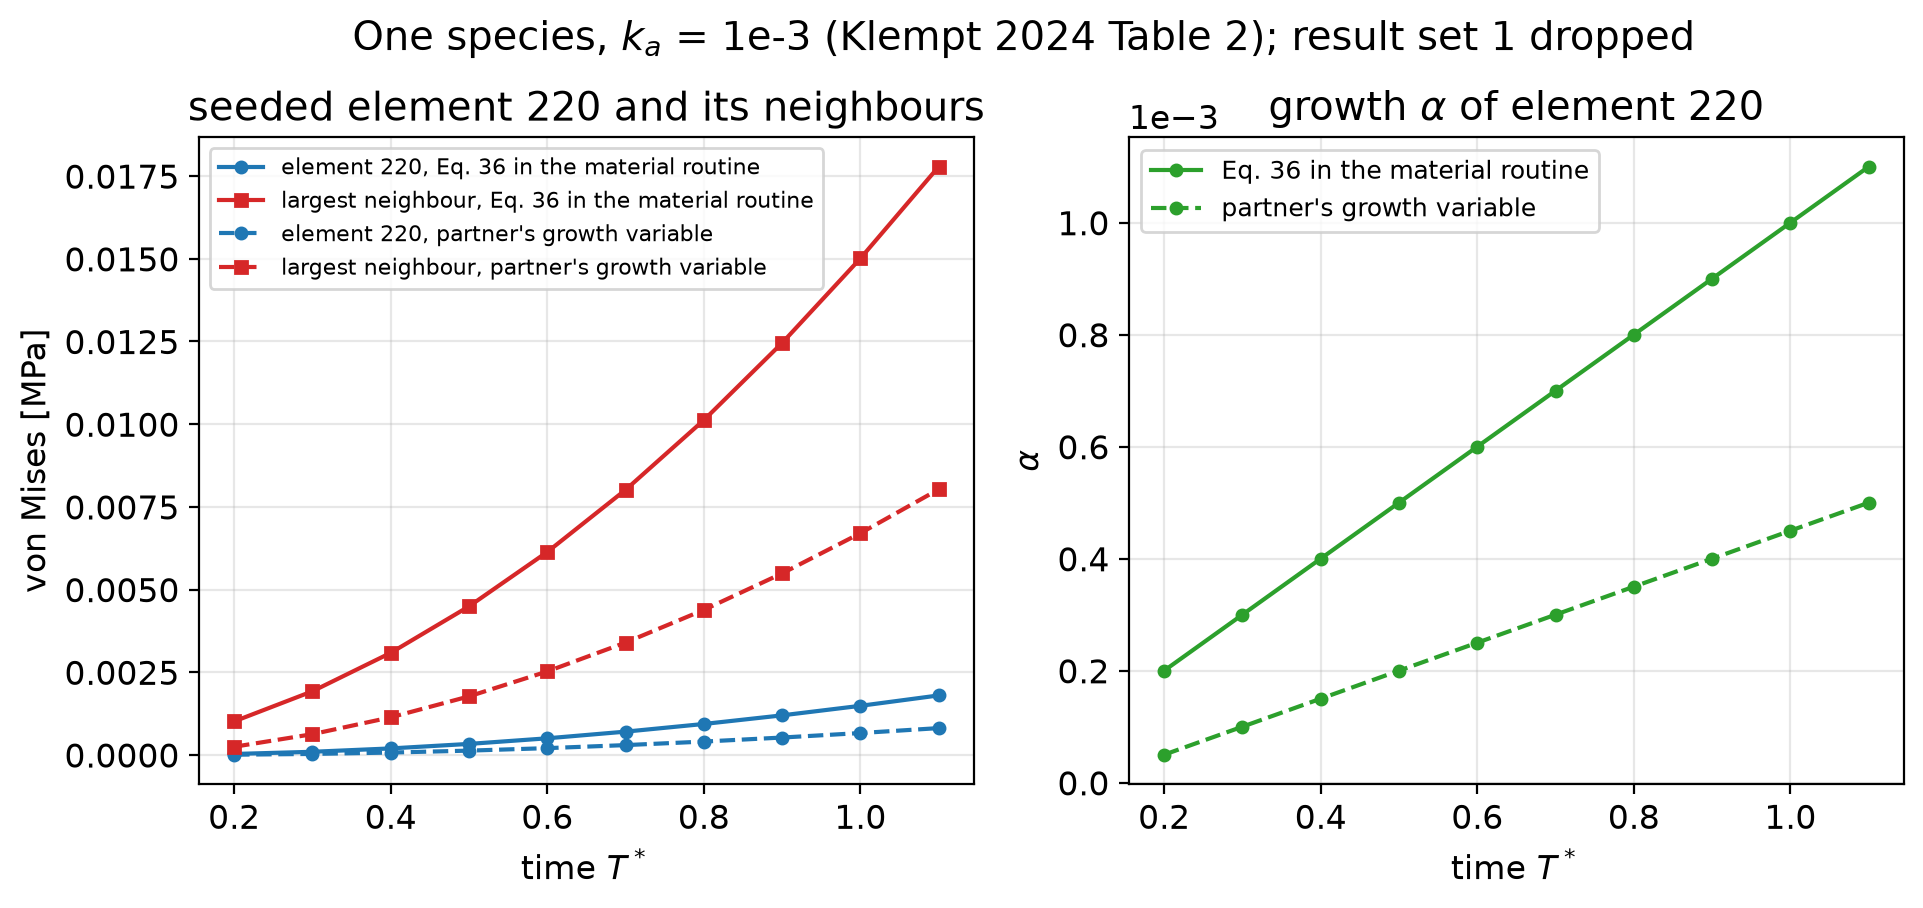
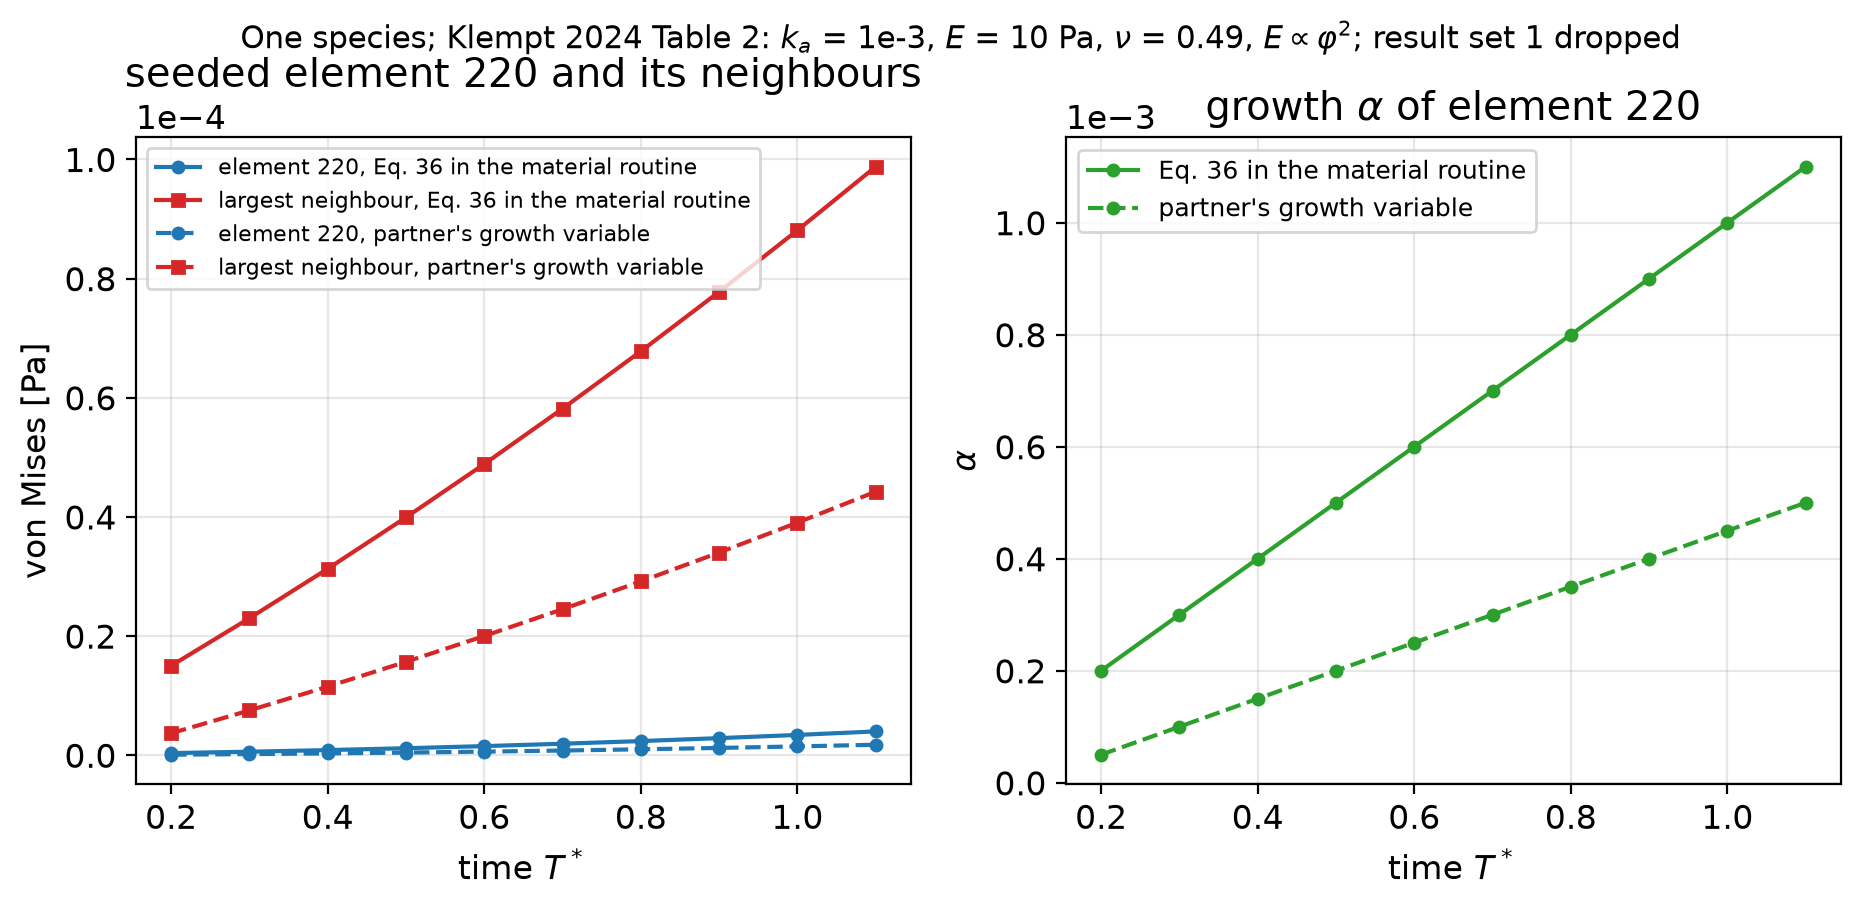
Figures and slides for 5 Oct with the Klempt 2024 stiffness
The ANSYS runs behind the whole-model and element figures are redone with
the stiffness of Klempt et al. 2024 (Eq. 20, Table 2): E = 10 Pa,
nu = 0.49, weighted with phi^2 (void floor 1e-3), through the new branch of
the material routine (checked on IKMHIWI03: the void modulus reaches it as
sYoungL, and nothing else uses it). Before, the example input's 1000 MPa
linear blend was used.

Results, one species, k_a = 1e-3, T* = 1.1: largest von Mises 9.9e-5 Pa
(5.6e-9 of before; pattern changes, cosine 0.94, the void is now soft),
seeded element 4.0e-6 Pa, neighbours about 25x; alpha unchanged (1.1e-3);
the element's own growth variable still gives 0.455 of ours. nu = 0.45
vs 0.49: stress changes by 27 % for a fivefold bulk modulus, no sign of
locking. The exact-solution figure is unaffected (field only).

figs_1005.py plots stresses in Pa; slides and speaker notes updated.

diff --git a/speaker_notes_1005.tex b/speaker_notes_1005.tex
@@ -118,15 +118,17 @@ unused one, and it lags one time step.
 \slide{Check 3: the seeded element}{1:30}
 \EN Third, the seeded element over time. Its $\alpha$ grows linearly to
 $1.1\times10^{-3}$, which is exactly $k_a\varphi t$. The element itself is
-compressed, and its neighbours carry about ten times its von Mises stress.
+compressed, and its neighbours carry about 25 times its von Mises stress.
 Klempt et al.\ show a similar ring of stress around the biofilm in their 2023
-paper. The stresses are small, at most 0.02 MPa, because the published
-growth rate is slow.
+paper. The stresses are tiny, at most $10^{-4}$ Pa, because the published
+growth rate is slow and the biofilm is very soft, $E=10$ Pa, as in their
+Table 2.
 \JA 3 つ目は、種を置いた要素の時間変化です。$\alpha$ は直線的に増えて
 $1.1\times10^{-3}$ になり、これはちょうど $k_a\varphi t$ です。要素自体は圧縮され、
-隣の要素はその約 10 倍の von Mises 応力を持ちます。Klempt らの 2023 年の論文に
-ある、バイオフィルムを囲む応力の輪と同じ傾向です。応力は最大 0.02 MPa と小さいですが、
-これは論文の成長速度が遅いためです。
+隣の要素はその約 25 倍の von Mises 応力を持ちます。Klempt らの 2023 年の論文に
+ある、バイオフィルムを囲む応力の輪と同じ傾向です。応力は最大 $10^{-4}$ Pa と非常に
+小さいですが、これは論文の成長速度が遅く、バイオフィルムがとても柔らかい
+（Table 2 の $E=10$ Pa）ためです。
 
 % ------------------------------------------------------------------
 \slide{Three things found along the way}{1:30}
@@ -138,14 +140,15 @@ species; the example input starts both species at one in the seed, so for one
 species I start the second at zero. Third, the first result set is not in
 equilibrium, because the element returns zero stress while it sets up its
 operators, so I exclude it. Earlier bring-up runs used larger growth rates
-to make the stress visible; everything shown today uses the published values.
+and the example input's stiffness, 1000 MPa; everything shown today uses the
+published values.
 \JA 見つかったことが 3 つあります。1 つ目、要素の成長変数は 2 つの菌種の場の平均なので、
 1 菌種だと成長が半分になります。意図したものか Oliver に確認したいと思います。
 2 つ目、空隙率は 1 から全菌種を引いたものなので、初期値は $\varphi_1+\varphi_2\le1$
 でなければなりません。例題の入力では種の領域で両菌種とも 1 から始まっているので、
 1 菌種の計算では 2 つ目を 0 にしました。3 つ目、最初の結果は釣り合っていません。
 要素が演算子を準備している間は応力ゼロを返すためで、この結果は除いています。
-なお、立ち上げ段階では応力を見やすくするため大きな成長速度を使っていましたが、
+なお、立ち上げ段階では大きな成長速度と例題入力の剛性（1000 MPa）を使っていましたが、
 今日お見せした結果はすべて論文の値です。
 
 % ------------------------------------------------------------------
@@ -250,10 +253,16 @@ field, background of the point model and one coupling step), for questions only.
 
 \begin{description}[leftmargin=0pt,itemsep=6pt]
 \item[Why are the stresses so small?]
-\EN The published $k_a=10^{-3}$ with $T^*\le1$ gives $\alpha\le10^{-3}$. Larger
-rates make larger stresses, but they would no longer be the paper's model.
-\JA 論文の $k_a=10^{-3}$ と $T^*\le1$ では $\alpha\le10^{-3}$ にしかなりません。
-速度を大きくすれば応力も大きくなりますが、それはもう論文のモデルではありません。
+\EN The published $k_a=10^{-3}$ with $T^*\le1$ gives $\alpha\le10^{-3}$, and the
+published stiffness is $E=10$ Pa, weighted with $\varphi^2$. Stress scales
+with both, so other values give other magnitudes, but they would no longer be
+the paper's model. (I checked $\nu=0.45$ against 0.49: the stress changes by
+27\,\% while the bulk modulus changes fivefold, so no sign of locking.)
+\JA 論文の $k_a=10^{-3}$ と $T^*\le1$ では $\alpha\le10^{-3}$ にしかならず、剛性も
+論文では $E=10$ Pa で $\varphi^2$ に比例します。応力はどちらにも比例するので、
+値を変えれば大きさも変わりますが、それはもう論文のモデルではありません。
+（$\nu=0.45$ と 0.49 を比べると、体積弾性率は 5 倍変わるのに応力の変化は 27\,\% なので、
+要素が硬くなりすぎる兆候はありません。）
 
 \item[Why not the five species right away?]
 \EN There is no published reference beyond four species, and Oliver's element is

diff --git a/ansys_usermat/apdl/figs_1005.py b/ansys_usermat/apdl/figs_1005.py
@@ -1,9 +1,12 @@
 """figs_1005.py -- figures for the 5 Oct meeting, from the ANSYS runs of
-1 Oct with Klempt et al. 2024 Table 2 values (k_a = 1e-3 /T*, in both the
+1-2 Oct with Klempt et al. 2024 Table 2 values (k_a = 1e-3 /T*, in both the
 partner's field and the growth law), ONE species (second species field
 started at 0 with rate 0), stored in results/2026-10-01_paper_values/
 (git-ignored like every *.csv: local on IKMHIWI03; the same files are in
-F:\biofilm_upf_wired as <name>_ds_pv_*_1sp.csv).
+F:\biofilm_upf_wired as phi_trace_ds_pv_exact_1sp.csv and <name>_ds_kl_*.csv).
+Stiffness also as in Table 2 / Eq. 20 (2 Oct): E = 10 Pa, nu = 0.49, weighted
+with phi^2 (void floor 1e-3): --set YOUNG_BIO=1e-5 --set POISSON_BIO=0.49
+--set YOUNG_VOID=-1e-3 (deck units MPa). Stresses are plotted in Pa.
 Decks: make_wired_deck.py on the partner's stage-1 deck with
   --set K_LOCAL1=1e-3 --set K_LOCAL2=0 --set MY_BIOSTART2=0.0
   and --props 7=1e-3,28=1 (Eq. 36 in the material routine) or 28=3 (the
@@ -92,7 +95,7 @@ def fig_exact():
 def read_all(p):
     rows = read_rows(p)[1:]
     a = np.array([[float(x) for x in r] for r in rows])
-    return a[:, 0].astype(int), a[:, 1], a[:, 2:5].mean(axis=1), a[:, 5]
+    return a[:, 0].astype(int), a[:, 1] * 1e6, a[:, 2:5].mean(axis=1) * 1e6, a[:, 5]   # MPa -> Pa
 
 
 def fig_whole():
@@ -108,11 +111,11 @@ def fig_whole():
     lo, hi = q1[m].min(), q1[m].max()
     ax[0].plot([lo, hi], [lo, hi], "k--", lw=1, label="1 : 1")
     ax[0].plot([lo, hi], [ratio * lo, ratio * hi], "r-", lw=1, label=f"{ratio:.2f} : 1 (median)")
-    ax[0].set(xlabel="von Mises [MPa], Eq. 36 in the material routine",
-              ylabel="von Mises [MPa], partner's growth variable",
+    ax[0].set(xlabel="von Mises [Pa], Eq. 36 in the material routine",
+              ylabel="von Mises [Pa], partner's growth variable",
               title=f"{len(q1)} elements, cosine similarity {cos:.4f}")
     ax[0].legend(fontsize=10)
-    fig.suptitle(r"Whole model at $T^*$ = 1.1, one species, $k_a$ = 1e-3 (Klempt 2024 Table 2)", y=1.0, fontsize=11)
+    fig.suptitle(r"Whole model at $T^*$ = 1.1, one species; Klempt 2024 Table 2: $k_a$ = 1e-3, $E$ = 10 Pa, $\nu$ = 0.49, $E \propto \varphi^2$", y=1.0, fontsize=10)
     fig.savefig(OUT / "fig1005_whole_model.png")
     plt.close(fig)
     return cos, ratio, float(q1.max()), float(q2.max())
@@ -121,7 +124,7 @@ def fig_whole():
 def read_elem(p):
     a = np.array([[float(x) for x in r] for r in read_rows(p)[1:]])
     a = a[1:]                                                    # drop result set 1
-    return a[:, 2], a[:, 9], a[:, 3:6].mean(axis=1), a[:, 11], a[:, 10]
+    return a[:, 2], a[:, 9] * 1e6, a[:, 3:6].mean(axis=1) * 1e6, a[:, 11] * 1e6, a[:, 10]   # MPa -> Pa
 
 
 def fig_elem():
@@ -134,12 +137,13 @@ def fig_elem():
         ax[0].plot(t, nb, "C3" + ls, marker="s", ms=4, label=f"largest neighbour, {name}")
         ax[1].plot(t, al, "C2" + ls, marker="o", ms=4, label=name)
         out[name] = (float(q[-1]), float(p[-1]), float(nb[-1]), float(al[-1]))
-    ax[0].set(xlabel=r"time $T^*$", ylabel="von Mises [MPa]", title="seeded element 220 and its neighbours")
+    ax[0].set(xlabel=r"time $T^*$", ylabel="von Mises [Pa]", title="seeded element 220 and its neighbours")
+    ax[0].ticklabel_format(axis="y", style="sci", scilimits=(0, 0))
     ax[0].legend(fontsize=8)
     ax[1].set(xlabel=r"time $T^*$", ylabel=r"$\alpha$", title=r"growth $\alpha$ of element 220")
     ax[1].legend(fontsize=9)
     ax[1].ticklabel_format(axis="y", style="sci", scilimits=(0, 0))
-    fig.suptitle(r"One species, $k_a$ = 1e-3 (Klempt 2024 Table 2); result set 1 dropped", y=1.02)
+    fig.suptitle(r"One species; Klempt 2024 Table 2: $k_a$ = 1e-3, $E$ = 10 Pa, $\nu$ = 0.49, $E \propto \varphi^2$; result set 1 dropped", y=1.02, fontsize=11)
     fig.savefig(OUT / "fig1005_element220.png")
     plt.close(fig)
     return out

diff --git a/slides_1005.tex b/slides_1005.tex
@@ -117,7 +117,8 @@ Klempt et al.\ 2024, Eq.\ 34, at its points:
 \end{itemize}
 \vspace{2pt}
 Parameters: Klempt et al.\ 2024 Table 2, $k_a=10^{-3}$ per unit time $T^*$,
-in the field \emph{and} in Eq.\ 36. ANSYS 2022 R2, one-species runs.
+in the field \emph{and} in Eq.\ 36; $E=10$ Pa, $\nu=0.49$, stiffness $\propto\varphi^2$.
+ANSYS 2022 R2, one-species runs.
 \vspace{4pt}
 \begin{center}
 \begin{tikzpicture}[node distance=1.2cm, every node/.style={font=\small}]
@@ -179,11 +180,11 @@ result, $\tfrac12\times\tfrac{10}{11}$:
 \small
 \begin{itemize}
   \item $\alpha=1.1\times10^{-3}=k_a\,\varphi\,t$ at $T^*=1.1$, exactly as Eq.\ 36 says
-  \item The element is compressed; its neighbours carry about 10$\times$ its
+  \item The element is compressed; its neighbours carry about 25$\times$ its
         von Mises stress (a similar stress ring around the biofilm is shown in
         Klempt et al.\ 2023)
-  \item Stresses are small ($\le 0.02$ MPa) since the published growth rate
-        $k_a=10^{-3}$ is slow
+  \item Stresses are tiny ($\le 10^{-4}$ Pa): the published growth rate
+        $k_a=10^{-3}$ is slow and the biofilm is soft ($E=10$ Pa)
 \end{itemize}
 \end{frame}
 
@@ -202,8 +203,8 @@ result, $\tfrac12\times\tfrac{10}{11}$:
 \end{enumerate}
 \vspace{6pt}
 \colorbox{c3!12}{\parbox{0.95\linewidth}{\small
-Earlier bring-up runs used larger growth rates (0.1, 0.5) to make stresses visible;
-all results on these slides use the published values.}}
+Earlier bring-up runs used larger growth rates (0.1, 0.5) and the example input's
+stiffness (1000 MPa); all results on these slides use the published values.}}
 \end{frame}
 
 % --------------------------------------------------------
@@ -405,9 +406,9 @@ $\varphi_{\rm cap}$ & largest amount the point model sees\\
 \textbf{Kinematics.} Growth is a volume change: $\mathbf F=\mathbf F_e\mathbf F_g$ with
 isotropic $\mathbf F_g=(1+\alpha)\mathbf I$. Stress comes only from $\mathbf F_e$ (neo-Hookean).
 A body that can grow freely stays stress free; stress appears where growth is constrained.\\
-\textbf{Material} (the example input, solver units MPa): $E_{\rm bio}=1000$, $E_{\rm void}=1$,
-$\nu=0.3$, blended linearly with the local biofilm fraction; no viscosity.
-Stresses scale linearly with $E$.
+\textbf{Material} (Klempt et al.\ 2024, Eq.\ 20 and Table 2): $E=10$ Pa, $\nu=0.49$,
+stiffness weighted with $\varphi^2$ (void: floor $10^{-3}E$); no viscosity.
+Stresses scale linearly with $E$ (the example input's 1000 MPa gives $10^8\times$ larger values).
 \vspace{4pt}
 
 \textbf{Field equations} (Klempt et al.\ 2024, from an extended Hamilton principle):
